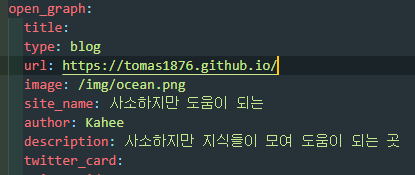
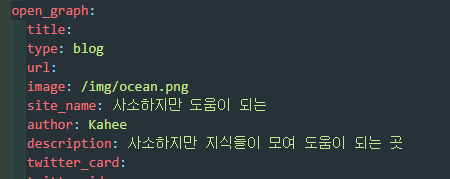
SITE UPDATE

diff --git a/make-a-pretty-link-preview/index.html b/make-a-pretty-link-preview/index.html
@@ -1,5 +1,5 @@
 <!doctype html>
-<html lang="en"><head><meta name="google-site-verification" content="4JQY5xZfRv3yRunHpSGYotQMGoLFLpnYPmnitXMdW24"><meta charset="utf-8"><meta name="viewport" content="width=device-width, initial-scale=1, maximum-scale=1"><meta property="og:image" content="/img/ocean.png"><title>[hexo] 블로그 링크 공유시 제목, 이미지 커스텀하기 - 사소하지만 도움이 되는</title><link rel="manifest" href="/manifest.json"><meta name="application-name" content="사소하지만 도움이 되는"><meta name="msapplication-TileImage" content="/img/logo.png"><meta name="apple-mobile-web-app-capable" content="yes"><meta name="apple-mobile-web-app-title" content="사소하지만 도움이 되는"><meta name="apple-mobile-web-app-status-bar-style" content="default"><meta name="description" content="사소하지만 지식들이 모여 도움이 되는 곳"><meta property="og:type" content="blog"><meta property="og:title" content="[hexo] 블로그 링크 공유시 제목, 이미지 커스텀하기 - 사소하지만 도움이 되는"><meta property="og:url" content="https://tomas1876.github.io/make-a-pretty-link-preview/"><meta property="og:site_name" content="사소하지만 도움이 되는"><meta property="og:description" content="사소하지만 지식들이 모여 도움이 되는 곳"><meta property="og:locale" content="en_US"><meta property="og:image" content="https://tomas1876.github.io/make-a-pretty-link-preview/cover.png"><meta property="article:published_time" content="2022-11-22T12:05:14.000Z"><meta property="article:modified_time" content="2022-11-22T13:41:53.292Z"><meta property="article:author" content="Kahee"><meta property="article:tag" content="hexo"><meta property="twitter:card" content="summary"><meta property="twitter:image:src" content="https://tomas1876.github.io/make-a-pretty-link-preview/cover.png"><script type="application/ld+json">{"@context":"https://schema.org","@type":"BlogPosting","mainEntityOfPage":{"@type":"WebPage","@id":"https://tomas1876.github.io/make-a-pretty-link-preview/"},"headline":"[hexo] 블로그 링크 공유시 제목, 이미지 커스텀하기","image":["https://tomas1876.github.io/make-a-pretty-link-preview/cover.png"],"datePublished":"2022-11-22T12:05:14.000Z","dateModified":"2022-11-22T13:41:53.292Z","author":{"@type":"Person","name":"Kahee"},"publisher":{"@type":"Organization","name":"사소하지만 도움이 되는","logo":{"@type":"ImageObject","url":"https://tomas1876.github.io/img/logo.png"}},"description":"커스텀! 커스텀을 하자!나는 원래 ‘내 개인의 것’이라는 생각이 들면 내 입맛대로 조금씩 바꾸는 것을 좋아한다.어렸을 때부터 휴대폰을 사면 가장 먼저 하는 것이 배경화면과 테마, 앱배치를 조정하는 일이었다.깃블로그를 만들고 나서도 가장 먼저 _config.yml을 열어 제목과 기본 정보들을 내 것으로 채워넣었다.여기까진 쉽고 자료도 많았다. 문제는 내 블로"}</script><link rel="canonical" href="https://tomas1876.github.io/make-a-pretty-link-preview/"><link rel="icon" href="/img/logo.png"><link rel="stylesheet" href="https://use.fontawesome.com/releases/v6.0.0/css/all.css"><link rel="stylesheet" href="https://cdn.jsdelivr.net/npm/highlight.js@9.12.0/styles/atom-one-light.css"><link rel="stylesheet" href="https://fonts.googleapis.com/css2?family=Ubuntu:wght@400;600&amp;family=Source+Code+Pro"><link rel="stylesheet" href="/css/default.css"><style>body>.footer,body>.navbar,body>.section{opacity:0}</style><!--!--><!--!--><!--!--><script src="//busuanzi.ibruce.info/busuanzi/2.3/busuanzi.pure.mini.js" defer></script><!--!--><link rel="stylesheet" href="https://cdn.jsdelivr.net/npm/cookieconsent@3.1.1/build/cookieconsent.min.css"><link rel="stylesheet" href="https://cdn.jsdelivr.net/npm/lightgallery@1.10.0/dist/css/lightgallery.min.css"><link rel="stylesheet" href="https://cdn.jsdelivr.net/npm/justifiedGallery@3.8.1/dist/css/justifiedGallery.min.css"><script src="https://www.googletagmanager.com/gtag/js?id=G-6H6ERYE1G0" async></script><script>window.dataLayer = window.dataLayer || [];
+<html lang="en"><head><meta name="google-site-verification" content="4JQY5xZfRv3yRunHpSGYotQMGoLFLpnYPmnitXMdW24"><meta charset="utf-8"><meta name="viewport" content="width=device-width, initial-scale=1, maximum-scale=1"><meta property="og:image" content="/img/ocean.png"><title>[hexo] 블로그 링크 공유시 제목, 이미지 커스텀하기 - 사소하지만 도움이 되는</title><link rel="manifest" href="/manifest.json"><meta name="application-name" content="사소하지만 도움이 되는"><meta name="msapplication-TileImage" content="/img/logo.png"><meta name="apple-mobile-web-app-capable" content="yes"><meta name="apple-mobile-web-app-title" content="사소하지만 도움이 되는"><meta name="apple-mobile-web-app-status-bar-style" content="default"><meta name="description" content="사소하지만 지식들이 모여 도움이 되는 곳"><meta property="og:type" content="blog"><meta property="og:title" content="[hexo] 블로그 링크 공유시 제목, 이미지 커스텀하기 - 사소하지만 도움이 되는"><meta property="og:url" content="https://tomas1876.github.io/make-a-pretty-link-preview/"><meta property="og:site_name" content="사소하지만 도움이 되는"><meta property="og:description" content="사소하지만 지식들이 모여 도움이 되는 곳"><meta property="og:locale" content="en_US"><meta property="og:image" content="https://tomas1876.github.io/make-a-pretty-link-preview/cover.png"><meta property="article:published_time" content="2022-11-22T12:05:14.000Z"><meta property="article:modified_time" content="2022-11-22T14:07:14.492Z"><meta property="article:author" content="Kahee"><meta property="article:tag" content="hexo"><meta property="twitter:card" content="summary"><meta property="twitter:image:src" content="https://tomas1876.github.io/make-a-pretty-link-preview/cover.png"><script type="application/ld+json">{"@context":"https://schema.org","@type":"BlogPosting","mainEntityOfPage":{"@type":"WebPage","@id":"https://tomas1876.github.io/make-a-pretty-link-preview/"},"headline":"[hexo] 블로그 링크 공유시 제목, 이미지 커스텀하기","image":["https://tomas1876.github.io/make-a-pretty-link-preview/cover.png"],"datePublished":"2022-11-22T12:05:14.000Z","dateModified":"2022-11-22T14:07:14.492Z","author":{"@type":"Person","name":"Kahee"},"publisher":{"@type":"Organization","name":"사소하지만 도움이 되는","logo":{"@type":"ImageObject","url":"https://tomas1876.github.io/img/logo.png"}},"description":"커스텀! 커스텀을 하자!나는 원래 ‘내 개인의 것’이라는 생각이 들면 내 입맛대로 조금씩 바꾸는 것을 좋아한다.어렸을 때부터 휴대폰을 사면 가장 먼저 하는 것이 배경화면과 테마, 앱배치를 조정하는 일이었다.깃블로그를 만들고 나서도 가장 먼저 _config.yml을 열어 제목과 기본 정보들을 내 것으로 채워넣었다.여기까진 쉽고 자료도 많았다. 문제는 내 블로"}</script><link rel="canonical" href="https://tomas1876.github.io/make-a-pretty-link-preview/"><link rel="icon" href="/img/logo.png"><link rel="stylesheet" href="https://use.fontawesome.com/releases/v6.0.0/css/all.css"><link rel="stylesheet" href="https://cdn.jsdelivr.net/npm/highlight.js@9.12.0/styles/atom-one-light.css"><link rel="stylesheet" href="https://fonts.googleapis.com/css2?family=Ubuntu:wght@400;600&amp;family=Source+Code+Pro"><link rel="stylesheet" href="/css/default.css"><style>body>.footer,body>.navbar,body>.section{opacity:0}</style><!--!--><!--!--><!--!--><script src="//busuanzi.ibruce.info/busuanzi/2.3/busuanzi.pure.mini.js" defer></script><!--!--><link rel="stylesheet" href="https://cdn.jsdelivr.net/npm/cookieconsent@3.1.1/build/cookieconsent.min.css"><link rel="stylesheet" href="https://cdn.jsdelivr.net/npm/lightgallery@1.10.0/dist/css/lightgallery.min.css"><link rel="stylesheet" href="https://cdn.jsdelivr.net/npm/justifiedGallery@3.8.1/dist/css/justifiedGallery.min.css"><script src="https://www.googletagmanager.com/gtag/js?id=G-6H6ERYE1G0" async></script><script>window.dataLayer = window.dataLayer || [];
         function gtag(){dataLayer.push(arguments);}
         gtag('js', new Date());
     
@@ -32,7 +32,7 @@
       switchTab();
       window.addEventListener('hashchange', switchTab, false);
   })();
-  </script><!-- hexo injector head_end end --><meta name="generator" content="Hexo 6.3.0"></head><body class="is-2-column"><nav class="navbar navbar-main"><div class="container navbar-container"><div class="navbar-brand justify-content-center"><a class="navbar-item navbar-logo" href="/"><img src="/img/logo.png" alt="사소하지만 도움이 되는" height="28"></a></div><div class="navbar-menu"><div class="navbar-start"><a class="navbar-item" href="/">Home</a><a class="navbar-item" href="/archives">Archives</a><a class="navbar-item" href="/categories">Categories</a><a class="navbar-item" href="/tags">Tags</a><a class="navbar-item" href="/about">About</a></div><div class="navbar-end"><a class="navbar-item" target="_blank" rel="noopener" title="Download on GitHub" href="https://github.com/Tomas1876"><i class="fab fa-github"></i></a><a class="navbar-item search" title="Search" href="javascript:;"><i class="fas fa-search"></i></a></div></div></div></nav><section class="section"><div class="container"><div class="columns"><div class="column order-2 column-main is-8-tablet is-8-desktop is-8-widescreen"><div class="card"><div class="card-image"><span class="image is-7by3"><img class="fill" src="/make-a-pretty-link-preview/cover.png" alt="[hexo] 블로그 링크 공유시 제목, 이미지 커스텀하기"></span></div><article class="card-content article" role="article"><div class="article-meta is-size-7 is-uppercase level is-mobile"><div class="level-left"><span class="level-item">Posted&nbsp;<time dateTime="2022-11-22T12:05:14.000Z" title="2022. 11. 22. 오후 9:05:14">2022-11-22</time></span><span class="level-item">Updated&nbsp;<time dateTime="2022-11-22T13:41:53.292Z" title="2022. 11. 22. 오후 10:41:53">2022-11-22</time></span><span class="level-item"><a class="link-muted" href="/categories/JOURNAL/">JOURNAL</a></span><span class="level-item">14 minutes read (About 2124 words)</span><span class="level-item" id="busuanzi_container_page_pv"><span id="busuanzi_value_page_pv">0</span>&nbsp;visits</span></div></div><h1 class="title is-3 is-size-4-mobile">[hexo] 블로그 링크 공유시 제목, 이미지 커스텀하기</h1><div class="content"><h3 id="커스텀-커스텀을-하자"><a href="#커스텀-커스텀을-하자" class="headerlink" title="커스텀! 커스텀을 하자!"></a>커스텀! 커스텀을 하자!</h3><p>나는 원래 ‘내 개인의 것’이라는 생각이 들면 내 입맛대로 조금씩 바꾸는 것을 좋아한다.<br>어렸을 때부터 휴대폰을 사면 가장 먼저 하는 것이 배경화면과 테마, 앱배치를 조정하는 일이었다.<br>깃블로그를 만들고 나서도 가장 먼저 _config.yml을 열어 제목과 기본 정보들을 내 것으로 채워넣었다.<br>여기까진 쉽고 자료도 많았다. 문제는 내 블로그를 지인에게 자랑하거나, 글을 써서 공유하려고 만든 링크의 미리보기가 마음에 들지 않는다는 것이었다.</p>
+  </script><!-- hexo injector head_end end --><meta name="generator" content="Hexo 6.3.0"></head><body class="is-2-column"><nav class="navbar navbar-main"><div class="container navbar-container"><div class="navbar-brand justify-content-center"><a class="navbar-item navbar-logo" href="/"><img src="/img/logo.png" alt="사소하지만 도움이 되는" height="28"></a></div><div class="navbar-menu"><div class="navbar-start"><a class="navbar-item" href="/">Home</a><a class="navbar-item" href="/archives">Archives</a><a class="navbar-item" href="/categories">Categories</a><a class="navbar-item" href="/tags">Tags</a><a class="navbar-item" href="/about">About</a></div><div class="navbar-end"><a class="navbar-item" target="_blank" rel="noopener" title="Download on GitHub" href="https://github.com/Tomas1876"><i class="fab fa-github"></i></a><a class="navbar-item search" title="Search" href="javascript:;"><i class="fas fa-search"></i></a></div></div></div></nav><section class="section"><div class="container"><div class="columns"><div class="column order-2 column-main is-8-tablet is-8-desktop is-8-widescreen"><div class="card"><div class="card-image"><span class="image is-7by3"><img class="fill" src="/make-a-pretty-link-preview/cover.png" alt="[hexo] 블로그 링크 공유시 제목, 이미지 커스텀하기"></span></div><article class="card-content article" role="article"><div class="article-meta is-size-7 is-uppercase level is-mobile"><div class="level-left"><span class="level-item">Posted&nbsp;<time dateTime="2022-11-22T12:05:14.000Z" title="2022. 11. 22. 오후 9:05:14">2022-11-22</time></span><span class="level-item">Updated&nbsp;<time dateTime="2022-11-22T14:07:14.492Z" title="2022. 11. 22. 오후 11:07:14">2022-11-22</time></span><span class="level-item"><a class="link-muted" href="/categories/JOURNAL/">JOURNAL</a></span><span class="level-item">14 minutes read (About 2124 words)</span><span class="level-item" id="busuanzi_container_page_pv"><span id="busuanzi_value_page_pv">0</span>&nbsp;visits</span></div></div><h1 class="title is-3 is-size-4-mobile">[hexo] 블로그 링크 공유시 제목, 이미지 커스텀하기</h1><div class="content"><h3 id="커스텀-커스텀을-하자"><a href="#커스텀-커스텀을-하자" class="headerlink" title="커스텀! 커스텀을 하자!"></a>커스텀! 커스텀을 하자!</h3><p>나는 원래 ‘내 개인의 것’이라는 생각이 들면 내 입맛대로 조금씩 바꾸는 것을 좋아한다.<br>어렸을 때부터 휴대폰을 사면 가장 먼저 하는 것이 배경화면과 테마, 앱배치를 조정하는 일이었다.<br>깃블로그를 만들고 나서도 가장 먼저 _config.yml을 열어 제목과 기본 정보들을 내 것으로 채워넣었다.<br>여기까진 쉽고 자료도 많았다. 문제는 내 블로그를 지인에게 자랑하거나, 글을 써서 공유하려고 만든 링크의 미리보기가 마음에 들지 않는다는 것이었다.</p>
 <img src="/make-a-pretty-link-preview/icarus-default.png" class="">
 
 <p>내가 사용하는 이카루스 테마의 기본 미리보기는 이렇다.<br>나쁘지는 않지만 마음에 드는 것은 아니었다. 뭐를 바꿔야 할지 몰라서 _config.yml과 _config.icarus.yml 을 샅샅이 뒤졌지만 무엇을 바꿔야 할 지 알 수 없었다. 그래서 일단 의심가는 곳을 다 설정해봤다.</p>
@@ -70,7 +70,7 @@
 <p>어? 왜 og:url이 게시글 url이 아니지? 설정파일에 적은 값들은 어떻게 태그로 변환되는 걸까? 중간에 무슨 문제가 있는 걸까?<br>layout.ejs는 없었지만 styl 파일이 있길래 확인했더니 head.jsx를 임포트 하고 있었다.</p>
 <figure class="highlight plaintext"><table><tr><td class="gutter"><pre><span class="line">1</span><br><span class="line">2</span><br><span class="line">3</span><br><span class="line">4</span><br><span class="line">5</span><br><span class="line">6</span><br><span class="line">7</span><br><span class="line">8</span><br><span class="line">9</span><br><span class="line">10</span><br><span class="line">11</span><br><span class="line">12</span><br><span class="line">13</span><br><span class="line">14</span><br><span class="line">15</span><br><span class="line">16</span><br><span class="line">17</span><br><span class="line">18</span><br><span class="line">19</span><br><span class="line">20</span><br><span class="line">21</span><br><span class="line">22</span><br><span class="line">23</span><br><span class="line">24</span><br><span class="line">25</span><br><span class="line">26</span><br><span class="line">27</span><br><span class="line">28</span><br><span class="line">29</span><br><span class="line">30</span><br><span class="line">31</span><br><span class="line">32</span><br><span class="line">33</span><br><span class="line">34</span><br><span class="line">35</span><br><span class="line">36</span><br></pre></td><td class="code"><pre><span class="line"> // ...</span><br><span class="line"></span><br><span class="line">module.exports = class extends Component &#123;</span><br><span class="line">    render() &#123;</span><br><span class="line">        const &#123; site, config, helper, page &#125; = this.props;</span><br><span class="line">        const &#123; url_for, cdn, fontcdn, iconcdn, is_post &#125; = helper;</span><br><span class="line">        const &#123;</span><br><span class="line">            url,</span><br><span class="line">            head = &#123;&#125;,</span><br><span class="line">            article,</span><br><span class="line">            highlight,</span><br><span class="line">            variant = &#x27;default&#x27;</span><br><span class="line">        &#125; = config;</span><br><span class="line">        const &#123;</span><br><span class="line">            meta = [],</span><br><span class="line">            manifest = &#123;&#125;,</span><br><span class="line">            open_graph = &#123;&#125;,</span><br><span class="line">            structured_data = &#123;&#125;,</span><br><span class="line">            canonical_url = page.permalink,</span><br><span class="line">            rss,</span><br><span class="line">            favicon</span><br><span class="line">        &#125; = head;</span><br><span class="line"></span><br><span class="line">  // ...</span><br><span class="line"></span><br><span class="line">  &#123;typeof open_graph === &#x27;object&#x27; &amp;&amp; open_graph !== null ? &lt;OpenGraph</span><br><span class="line">                type=&#123;open_graph.type || (is_post(page) ? &#x27;article&#x27; : &#x27;website&#x27;)&#125;</span><br><span class="line">                title=&#123;open_graph.title || page.title || config.title&#125;</span><br><span class="line">                date=&#123;page.date&#125;</span><br><span class="line">                updated=&#123;page.updated&#125;</span><br><span class="line">                author=&#123;open_graph.author || config.author&#125;</span><br><span class="line">                description=&#123;open_graph.description || page.description || page.excerpt || page.content || config.description&#125;</span><br><span class="line">                keywords=&#123;(page.tags &amp;&amp; page.tags.length ? page.tags : undefined) || config.keywords&#125;</span><br><span class="line">                url=&#123;open_graph.url || page.permalink || url&#125;</span><br><span class="line">                images=&#123;openGraphImages&#125;</span><br><span class="line">  // ...</span><br></pre></td></tr></table></figure>
 
-<p><code>title=&#123;open_graph.title || page.title || config.title&#125;</code> 을 보고 각각 확인해 보니 open_graph.title은 비어 있고 page.title은 잘 들어가 있었다. 그런데 왜 제대로 뜨지 않을까? url 때문이겠지? 왜 기본 url로 og:url이 설정될까? <del>이 부분에서 꽤 오래 삽질을 했다. 콘솔에 변수를 찍어보고 값이 있는 걸 확인하고 몇 번이고 generate를 하고</del> 알고 보니 내가 설정 파일에서 open_graph의 url을 블로그 기본 url로 해놨더라. 그러니 <code>url=&#123;open_graph.url || page.permalink || url&#125;</code>에서 기본 url이 먼저 할당되어 버린 거였다. 하하…코드를 잘 읽자… <del>역시 컴퓨터는 죄가 없다. 잘못하는 건 항상 나다</del> 그 부분을 지워주고 <code>page.permalink</code>가 값이 잘 들어가는 것을 확인한 뒤 다시 배포하고 게시글 링크를 공유했다.</p>
+<p><code>title=&#123;open_graph.title || page.title || config.title&#125;</code> 을 보고 각각 확인해 보니 open_graph.title은 비어 있고 page.title은 잘 들어가 있었다. 그런데 왜 제대로 뜨지 않을까? url 때문이겠지? 왜 기본 url로 og:url이 설정될까? <del>이 부분에서 꽤 오래 삽질을 했다. 콘솔에 변수를 찍어보고 값이 있는 걸 확인하고 몇 번이고 generate를 하고</del> 알고 보니 내가 설정 파일에서 open_graph의 url을 블로그 기본 url로 해놨더라. 그러니 <code>url=&#123;open_graph.url || page.permalink || url&#125;</code>에서 기본 url이 먼저 할당되어 버린 거였다. 하하…코드를 잘 읽자… <del>역시 컴퓨터는 죄가 없다. 잘못하는 건 항상 나다</del><br>그 부분을 지워주고 <code>page.permalink</code>가 값이 잘 들어가는 것을 확인한 뒤 다시 배포하고 게시글 링크를 공유했다.</p>
 <img src="/make-a-pretty-link-preview/custom3.png" class="">
 
 <p>와! 드디어 제목이 들어갔다!!! 나는 자리에서 벌떡 일어났다. 그리고 3초 후 앉았다. 게시글 커버 있는데 왜 반영 안됐지?<br>이쯤 되면 조금 까다로운 사람이라는 생각이 들겠지만, 나는 만족할 수 없었다. 이 글은 내가 직접 커버까지 찍은 글이어서 그런가 상당히 마음에 드는 사진이었기 때문이다.</p>

diff --git a/categories/JOURNAL/index.html b/categories/JOURNAL/index.html
@@ -32,7 +32,7 @@
       switchTab();
       window.addEventListener('hashchange', switchTab, false);
   })();
-  </script><!-- hexo injector head_end end --><meta name="generator" content="Hexo 6.3.0"></head><body class="is-2-column"><nav class="navbar navbar-main"><div class="container navbar-container"><div class="navbar-brand justify-content-center"><a class="navbar-item navbar-logo" href="/"><img src="/img/logo.png" alt="사소하지만 도움이 되는" height="28"></a></div><div class="navbar-menu"><div class="navbar-start"><a class="navbar-item" href="/">Home</a><a class="navbar-item" href="/archives">Archives</a><a class="navbar-item" href="/categories">Categories</a><a class="navbar-item" href="/tags">Tags</a><a class="navbar-item" href="/about">About</a></div><div class="navbar-end"><a class="navbar-item" target="_blank" rel="noopener" title="Download on GitHub" href="https://github.com/Tomas1876"><i class="fab fa-github"></i></a><a class="navbar-item search" title="Search" href="javascript:;"><i class="fas fa-search"></i></a></div></div></div></nav><section class="section"><div class="container"><div class="columns"><div class="column order-2 column-main is-8-tablet is-8-desktop is-8-widescreen"><div class="card"><div class="card-content"><nav class="breadcrumb" aria-label="breadcrumbs"><ul><li><a href="/categories">Categories</a></li><li class="is-active"><a href="#" aria-current="page">JOURNAL</a></li></ul></nav></div></div><div class="card"><div class="card-image"><a class="image is-7by3" href="/make-a-pretty-link-preview/"><img class="fill" src="/make-a-pretty-link-preview/cover.png" alt="[hexo] 블로그 링크 공유시 제목, 이미지 커스텀하기"></a></div><article class="card-content article" role="article"><div class="article-meta is-size-7 is-uppercase level is-mobile"><div class="level-left"><span class="level-item">Posted&nbsp;<time dateTime="2022-11-22T12:05:14.000Z" title="2022. 11. 22. 오후 9:05:14">2022-11-22</time></span><span class="level-item">Updated&nbsp;<time dateTime="2022-11-22T13:41:53.292Z" title="2022. 11. 22. 오후 10:41:53">2022-11-22</time></span><span class="level-item"><a class="link-muted" href="/categories/JOURNAL/">JOURNAL</a></span><span class="level-item">14 minutes read (About 2124 words)</span></div></div><h1 class="title is-3 is-size-4-mobile"><a class="link-muted" href="/make-a-pretty-link-preview/">[hexo] 블로그 링크 공유시 제목, 이미지 커스텀하기</a></h1><div class="content"><h3 id="커스텀-커스텀을-하자"><a href="#커스텀-커스텀을-하자" class="headerlink" title="커스텀! 커스텀을 하자!"></a>커스텀! 커스텀을 하자!</h3><p>나는 원래 ‘내 개인의 것’이라는 생각이 들면 내 입맛대로 조금씩 바꾸는 것을 좋아한다.<br>어렸을 때부터 휴대폰을 사면 가장 먼저 하는 것이 배경화면과 테마, 앱배치를 조정하는 일이었다.<br>깃블로그를 만들고 나서도 가장 먼저 _config.yml을 열어 제목과 기본 정보들을 내 것으로 채워넣었다.<br>여기까진 쉽고 자료도 많았다. 문제는 내 블로그를 지인에게 자랑하거나, 글을 써서 공유하려고 만든 링크의 미리보기가 마음에 들지 않는다는 것이었다.</p>
+  </script><!-- hexo injector head_end end --><meta name="generator" content="Hexo 6.3.0"></head><body class="is-2-column"><nav class="navbar navbar-main"><div class="container navbar-container"><div class="navbar-brand justify-content-center"><a class="navbar-item navbar-logo" href="/"><img src="/img/logo.png" alt="사소하지만 도움이 되는" height="28"></a></div><div class="navbar-menu"><div class="navbar-start"><a class="navbar-item" href="/">Home</a><a class="navbar-item" href="/archives">Archives</a><a class="navbar-item" href="/categories">Categories</a><a class="navbar-item" href="/tags">Tags</a><a class="navbar-item" href="/about">About</a></div><div class="navbar-end"><a class="navbar-item" target="_blank" rel="noopener" title="Download on GitHub" href="https://github.com/Tomas1876"><i class="fab fa-github"></i></a><a class="navbar-item search" title="Search" href="javascript:;"><i class="fas fa-search"></i></a></div></div></div></nav><section class="section"><div class="container"><div class="columns"><div class="column order-2 column-main is-8-tablet is-8-desktop is-8-widescreen"><div class="card"><div class="card-content"><nav class="breadcrumb" aria-label="breadcrumbs"><ul><li><a href="/categories">Categories</a></li><li class="is-active"><a href="#" aria-current="page">JOURNAL</a></li></ul></nav></div></div><div class="card"><div class="card-image"><a class="image is-7by3" href="/make-a-pretty-link-preview/"><img class="fill" src="/make-a-pretty-link-preview/cover.png" alt="[hexo] 블로그 링크 공유시 제목, 이미지 커스텀하기"></a></div><article class="card-content article" role="article"><div class="article-meta is-size-7 is-uppercase level is-mobile"><div class="level-left"><span class="level-item">Posted&nbsp;<time dateTime="2022-11-22T12:05:14.000Z" title="2022. 11. 22. 오후 9:05:14">2022-11-22</time></span><span class="level-item">Updated&nbsp;<time dateTime="2022-11-22T14:07:14.492Z" title="2022. 11. 22. 오후 11:07:14">2022-11-22</time></span><span class="level-item"><a class="link-muted" href="/categories/JOURNAL/">JOURNAL</a></span><span class="level-item">14 minutes read (About 2124 words)</span></div></div><h1 class="title is-3 is-size-4-mobile"><a class="link-muted" href="/make-a-pretty-link-preview/">[hexo] 블로그 링크 공유시 제목, 이미지 커스텀하기</a></h1><div class="content"><h3 id="커스텀-커스텀을-하자"><a href="#커스텀-커스텀을-하자" class="headerlink" title="커스텀! 커스텀을 하자!"></a>커스텀! 커스텀을 하자!</h3><p>나는 원래 ‘내 개인의 것’이라는 생각이 들면 내 입맛대로 조금씩 바꾸는 것을 좋아한다.<br>어렸을 때부터 휴대폰을 사면 가장 먼저 하는 것이 배경화면과 테마, 앱배치를 조정하는 일이었다.<br>깃블로그를 만들고 나서도 가장 먼저 _config.yml을 열어 제목과 기본 정보들을 내 것으로 채워넣었다.<br>여기까진 쉽고 자료도 많았다. 문제는 내 블로그를 지인에게 자랑하거나, 글을 써서 공유하려고 만든 링크의 미리보기가 마음에 들지 않는다는 것이었다.</p>
 <img src="/make-a-pretty-link-preview/icarus-default.png" class>
 
 <p>내가 사용하는 이카루스 테마의 기본 미리보기는 이렇다.<br>나쁘지는 않지만 마음에 드는 것은 아니었다. 뭐를 바꿔야 할지 몰라서 _config.yml과 _config.icarus.yml 을 샅샅이 뒤졌지만 무엇을 바꿔야 할 지 알 수 없었다. 그래서 일단 의심가는 곳을 다 설정해봤다.</p>

diff --git a/tags/hexo/index.html b/tags/hexo/index.html
@@ -32,7 +32,7 @@
       switchTab();
       window.addEventListener('hashchange', switchTab, false);
   })();
-  </script><!-- hexo injector head_end end --><meta name="generator" content="Hexo 6.3.0"></head><body class="is-2-column"><nav class="navbar navbar-main"><div class="container navbar-container"><div class="navbar-brand justify-content-center"><a class="navbar-item navbar-logo" href="/"><img src="/img/logo.png" alt="사소하지만 도움이 되는" height="28"></a></div><div class="navbar-menu"><div class="navbar-start"><a class="navbar-item" href="/">Home</a><a class="navbar-item" href="/archives">Archives</a><a class="navbar-item" href="/categories">Categories</a><a class="navbar-item" href="/tags">Tags</a><a class="navbar-item" href="/about">About</a></div><div class="navbar-end"><a class="navbar-item" target="_blank" rel="noopener" title="Download on GitHub" href="https://github.com/Tomas1876"><i class="fab fa-github"></i></a><a class="navbar-item search" title="Search" href="javascript:;"><i class="fas fa-search"></i></a></div></div></div></nav><section class="section"><div class="container"><div class="columns"><div class="column order-2 column-main is-8-tablet is-8-desktop is-8-widescreen"><div class="card"><div class="card-content"><nav class="breadcrumb" aria-label="breadcrumbs"><ul><li><a href="/tags">Tags</a></li><li class="is-active"><a href="#" aria-current="page">hexo</a></li></ul></nav></div></div><div class="card"><div class="card-image"><a class="image is-7by3" href="/make-a-pretty-link-preview/"><img class="fill" src="/make-a-pretty-link-preview/cover.png" alt="[hexo] 블로그 링크 공유시 제목, 이미지 커스텀하기"></a></div><article class="card-content article" role="article"><div class="article-meta is-size-7 is-uppercase level is-mobile"><div class="level-left"><span class="level-item">Posted&nbsp;<time dateTime="2022-11-22T12:05:14.000Z" title="2022. 11. 22. 오후 9:05:14">2022-11-22</time></span><span class="level-item">Updated&nbsp;<time dateTime="2022-11-22T13:41:53.292Z" title="2022. 11. 22. 오후 10:41:53">2022-11-22</time></span><span class="level-item"><a class="link-muted" href="/categories/JOURNAL/">JOURNAL</a></span><span class="level-item">14 minutes read (About 2124 words)</span></div></div><h1 class="title is-3 is-size-4-mobile"><a class="link-muted" href="/make-a-pretty-link-preview/">[hexo] 블로그 링크 공유시 제목, 이미지 커스텀하기</a></h1><div class="content"><h3 id="커스텀-커스텀을-하자"><a href="#커스텀-커스텀을-하자" class="headerlink" title="커스텀! 커스텀을 하자!"></a>커스텀! 커스텀을 하자!</h3><p>나는 원래 ‘내 개인의 것’이라는 생각이 들면 내 입맛대로 조금씩 바꾸는 것을 좋아한다.<br>어렸을 때부터 휴대폰을 사면 가장 먼저 하는 것이 배경화면과 테마, 앱배치를 조정하는 일이었다.<br>깃블로그를 만들고 나서도 가장 먼저 _config.yml을 열어 제목과 기본 정보들을 내 것으로 채워넣었다.<br>여기까진 쉽고 자료도 많았다. 문제는 내 블로그를 지인에게 자랑하거나, 글을 써서 공유하려고 만든 링크의 미리보기가 마음에 들지 않는다는 것이었다.</p>
+  </script><!-- hexo injector head_end end --><meta name="generator" content="Hexo 6.3.0"></head><body class="is-2-column"><nav class="navbar navbar-main"><div class="container navbar-container"><div class="navbar-brand justify-content-center"><a class="navbar-item navbar-logo" href="/"><img src="/img/logo.png" alt="사소하지만 도움이 되는" height="28"></a></div><div class="navbar-menu"><div class="navbar-start"><a class="navbar-item" href="/">Home</a><a class="navbar-item" href="/archives">Archives</a><a class="navbar-item" href="/categories">Categories</a><a class="navbar-item" href="/tags">Tags</a><a class="navbar-item" href="/about">About</a></div><div class="navbar-end"><a class="navbar-item" target="_blank" rel="noopener" title="Download on GitHub" href="https://github.com/Tomas1876"><i class="fab fa-github"></i></a><a class="navbar-item search" title="Search" href="javascript:;"><i class="fas fa-search"></i></a></div></div></div></nav><section class="section"><div class="container"><div class="columns"><div class="column order-2 column-main is-8-tablet is-8-desktop is-8-widescreen"><div class="card"><div class="card-content"><nav class="breadcrumb" aria-label="breadcrumbs"><ul><li><a href="/tags">Tags</a></li><li class="is-active"><a href="#" aria-current="page">hexo</a></li></ul></nav></div></div><div class="card"><div class="card-image"><a class="image is-7by3" href="/make-a-pretty-link-preview/"><img class="fill" src="/make-a-pretty-link-preview/cover.png" alt="[hexo] 블로그 링크 공유시 제목, 이미지 커스텀하기"></a></div><article class="card-content article" role="article"><div class="article-meta is-size-7 is-uppercase level is-mobile"><div class="level-left"><span class="level-item">Posted&nbsp;<time dateTime="2022-11-22T12:05:14.000Z" title="2022. 11. 22. 오후 9:05:14">2022-11-22</time></span><span class="level-item">Updated&nbsp;<time dateTime="2022-11-22T14:07:14.492Z" title="2022. 11. 22. 오후 11:07:14">2022-11-22</time></span><span class="level-item"><a class="link-muted" href="/categories/JOURNAL/">JOURNAL</a></span><span class="level-item">14 minutes read (About 2124 words)</span></div></div><h1 class="title is-3 is-size-4-mobile"><a class="link-muted" href="/make-a-pretty-link-preview/">[hexo] 블로그 링크 공유시 제목, 이미지 커스텀하기</a></h1><div class="content"><h3 id="커스텀-커스텀을-하자"><a href="#커스텀-커스텀을-하자" class="headerlink" title="커스텀! 커스텀을 하자!"></a>커스텀! 커스텀을 하자!</h3><p>나는 원래 ‘내 개인의 것’이라는 생각이 들면 내 입맛대로 조금씩 바꾸는 것을 좋아한다.<br>어렸을 때부터 휴대폰을 사면 가장 먼저 하는 것이 배경화면과 테마, 앱배치를 조정하는 일이었다.<br>깃블로그를 만들고 나서도 가장 먼저 _config.yml을 열어 제목과 기본 정보들을 내 것으로 채워넣었다.<br>여기까진 쉽고 자료도 많았다. 문제는 내 블로그를 지인에게 자랑하거나, 글을 써서 공유하려고 만든 링크의 미리보기가 마음에 들지 않는다는 것이었다.</p>
 <img src="/make-a-pretty-link-preview/icarus-default.png" class>
 
 <p>내가 사용하는 이카루스 테마의 기본 미리보기는 이렇다.<br>나쁘지는 않지만 마음에 드는 것은 아니었다. 뭐를 바꿔야 할지 몰라서 _config.yml과 _config.icarus.yml 을 샅샅이 뒤졌지만 무엇을 바꿔야 할 지 알 수 없었다. 그래서 일단 의심가는 곳을 다 설정해봤다.</p>

diff --git a/categories/index.html b/categories/index.html
@@ -1,5 +1,5 @@
 <!doctype html>
-<html lang="en"><head><meta name="google-site-verification" content="4JQY5xZfRv3yRunHpSGYotQMGoLFLpnYPmnitXMdW24"><meta charset="utf-8"><meta name="viewport" content="width=device-width, initial-scale=1, maximum-scale=1"><meta property="og:image" content="/img/ocean.png"><title>Categories - 사소하지만 도움이 되는</title><link rel="manifest" href="/manifest.json"><meta name="application-name" content="사소하지만 도움이 되는"><meta name="msapplication-TileImage" content="/img/logo.png"><meta name="apple-mobile-web-app-capable" content="yes"><meta name="apple-mobile-web-app-title" content="사소하지만 도움이 되는"><meta name="apple-mobile-web-app-status-bar-style" content="default"><meta name="description" content="사소하지만 지식들이 모여 도움이 되는 곳"><meta property="og:type" content="blog"><meta property="og:title" content="Categories - 사소하지만 도움이 되는"><meta property="og:url" content="https://tomas1876.github.io/"><meta property="og:site_name" content="사소하지만 도움이 되는"><meta property="og:description" content="사소하지만 지식들이 모여 도움이 되는 곳"><meta property="og:locale" content="en_US"><meta property="og:image" content="https://tomas1876.github.io/img/ocean.png"><meta property="article:author" content="Kahee"><meta property="article:tag" content="hexo"><meta property="article:tag" content="dev"><meta property="article:tag" content="git"><meta property="article:tag" content="front-end"><meta property="article:tag" content="react"><meta property="article:tag" content="typescript"><meta property="twitter:card" content="summary"><meta property="twitter:image:src" content="https://tomas1876.github.io/img/ocean.png"><script type="application/ld+json">{"@context":"https://schema.org","@type":"BlogPosting","mainEntityOfPage":{"@type":"WebPage","@id":"https://tomas1876.github.io"},"headline":"사소하지만 도움이 되는","image":["https://tomas1876.github.io/img/og_image.png"],"author":{"@type":"Person","name":"Kahee"},"publisher":{"@type":"Organization","name":"사소하지만 도움이 되는","logo":{"@type":"ImageObject","url":"https://tomas1876.github.io/img/logo.png"}},"description":""}</script><link rel="icon" href="/img/logo.png"><link rel="stylesheet" href="https://use.fontawesome.com/releases/v6.0.0/css/all.css"><link rel="stylesheet" href="https://cdn.jsdelivr.net/npm/highlight.js@9.12.0/styles/atom-one-light.css"><link rel="stylesheet" href="https://fonts.googleapis.com/css2?family=Ubuntu:wght@400;600&amp;family=Source+Code+Pro"><link rel="stylesheet" href="/css/default.css"><style>body>.footer,body>.navbar,body>.section{opacity:0}</style><!--!--><!--!--><!--!--><script src="//busuanzi.ibruce.info/busuanzi/2.3/busuanzi.pure.mini.js" defer></script><!--!--><link rel="stylesheet" href="https://cdn.jsdelivr.net/npm/cookieconsent@3.1.1/build/cookieconsent.min.css"><link rel="stylesheet" href="https://cdn.jsdelivr.net/npm/lightgallery@1.10.0/dist/css/lightgallery.min.css"><link rel="stylesheet" href="https://cdn.jsdelivr.net/npm/justifiedGallery@3.8.1/dist/css/justifiedGallery.min.css"><script src="https://www.googletagmanager.com/gtag/js?id=G-6H6ERYE1G0" async></script><script>window.dataLayer = window.dataLayer || [];
+<html lang="en"><head><meta name="google-site-verification" content="4JQY5xZfRv3yRunHpSGYotQMGoLFLpnYPmnitXMdW24"><meta charset="utf-8"><meta name="viewport" content="width=device-width, initial-scale=1, maximum-scale=1"><meta property="og:image" content="/img/ocean.png"><title>Categories - 사소하지만 도움이 되는</title><link rel="manifest" href="/manifest.json"><meta name="application-name" content="사소하지만 도움이 되는"><meta name="msapplication-TileImage" content="/img/logo.png"><meta name="apple-mobile-web-app-capable" content="yes"><meta name="apple-mobile-web-app-title" content="사소하지만 도움이 되는"><meta name="apple-mobile-web-app-status-bar-style" content="default"><meta name="description" content="사소하지만 지식들이 모여 도움이 되는 곳"><meta property="og:type" content="blog"><meta property="og:title" content="Categories - 사소하지만 도움이 되는"><meta property="og:url" content="https://tomas1876.github.io/"><meta property="og:site_name" content="사소하지만 도움이 되는"><meta property="og:description" content="사소하지만 지식들이 모여 도움이 되는 곳"><meta property="og:locale" content="en_US"><meta property="og:image" content="https://tomas1876.github.io/img/ocean.png"><meta property="article:author" content="Kahee"><meta property="article:tag" content="dev"><meta property="article:tag" content="git"><meta property="article:tag" content="hexo"><meta property="article:tag" content="front-end"><meta property="article:tag" content="react"><meta property="article:tag" content="typescript"><meta property="twitter:card" content="summary"><meta property="twitter:image:src" content="https://tomas1876.github.io/img/ocean.png"><script type="application/ld+json">{"@context":"https://schema.org","@type":"BlogPosting","mainEntityOfPage":{"@type":"WebPage","@id":"https://tomas1876.github.io"},"headline":"사소하지만 도움이 되는","image":["https://tomas1876.github.io/img/og_image.png"],"author":{"@type":"Person","name":"Kahee"},"publisher":{"@type":"Organization","name":"사소하지만 도움이 되는","logo":{"@type":"ImageObject","url":"https://tomas1876.github.io/img/logo.png"}},"description":""}</script><link rel="icon" href="/img/logo.png"><link rel="stylesheet" href="https://use.fontawesome.com/releases/v6.0.0/css/all.css"><link rel="stylesheet" href="https://cdn.jsdelivr.net/npm/highlight.js@9.12.0/styles/atom-one-light.css"><link rel="stylesheet" href="https://fonts.googleapis.com/css2?family=Ubuntu:wght@400;600&amp;family=Source+Code+Pro"><link rel="stylesheet" href="/css/default.css"><style>body>.footer,body>.navbar,body>.section{opacity:0}</style><!--!--><!--!--><!--!--><script src="//busuanzi.ibruce.info/busuanzi/2.3/busuanzi.pure.mini.js" defer></script><!--!--><link rel="stylesheet" href="https://cdn.jsdelivr.net/npm/cookieconsent@3.1.1/build/cookieconsent.min.css"><link rel="stylesheet" href="https://cdn.jsdelivr.net/npm/lightgallery@1.10.0/dist/css/lightgallery.min.css"><link rel="stylesheet" href="https://cdn.jsdelivr.net/npm/justifiedGallery@3.8.1/dist/css/justifiedGallery.min.css"><script src="https://www.googletagmanager.com/gtag/js?id=G-6H6ERYE1G0" async></script><script>window.dataLayer = window.dataLayer || [];
         function gtag(){dataLayer.push(arguments);}
         gtag('js', new Date());
     

diff --git a/tags/index.html b/tags/index.html
@@ -1,5 +1,5 @@
 <!doctype html>
-<html lang="en"><head><meta name="google-site-verification" content="4JQY5xZfRv3yRunHpSGYotQMGoLFLpnYPmnitXMdW24"><meta charset="utf-8"><meta name="viewport" content="width=device-width, initial-scale=1, maximum-scale=1"><meta property="og:image" content="/img/ocean.png"><title>Tags - 사소하지만 도움이 되는</title><link rel="manifest" href="/manifest.json"><meta name="application-name" content="사소하지만 도움이 되는"><meta name="msapplication-TileImage" content="/img/logo.png"><meta name="apple-mobile-web-app-capable" content="yes"><meta name="apple-mobile-web-app-title" content="사소하지만 도움이 되는"><meta name="apple-mobile-web-app-status-bar-style" content="default"><meta name="description" content="사소하지만 지식들이 모여 도움이 되는 곳"><meta property="og:type" content="blog"><meta property="og:title" content="Tags - 사소하지만 도움이 되는"><meta property="og:url" content="https://tomas1876.github.io/"><meta property="og:site_name" content="사소하지만 도움이 되는"><meta property="og:description" content="사소하지만 지식들이 모여 도움이 되는 곳"><meta property="og:locale" content="en_US"><meta property="og:image" content="https://tomas1876.github.io/img/ocean.png"><meta property="article:author" content="Kahee"><meta property="article:tag" content="hexo"><meta property="article:tag" content="dev"><meta property="article:tag" content="git"><meta property="article:tag" content="front-end"><meta property="article:tag" content="react"><meta property="article:tag" content="typescript"><meta property="twitter:card" content="summary"><meta property="twitter:image:src" content="https://tomas1876.github.io/img/ocean.png"><script type="application/ld+json">{"@context":"https://schema.org","@type":"BlogPosting","mainEntityOfPage":{"@type":"WebPage","@id":"https://tomas1876.github.io"},"headline":"사소하지만 도움이 되는","image":["https://tomas1876.github.io/img/og_image.png"],"author":{"@type":"Person","name":"Kahee"},"publisher":{"@type":"Organization","name":"사소하지만 도움이 되는","logo":{"@type":"ImageObject","url":"https://tomas1876.github.io/img/logo.png"}},"description":""}</script><link rel="icon" href="/img/logo.png"><link rel="stylesheet" href="https://use.fontawesome.com/releases/v6.0.0/css/all.css"><link rel="stylesheet" href="https://cdn.jsdelivr.net/npm/highlight.js@9.12.0/styles/atom-one-light.css"><link rel="stylesheet" href="https://fonts.googleapis.com/css2?family=Ubuntu:wght@400;600&amp;family=Source+Code+Pro"><link rel="stylesheet" href="/css/default.css"><style>body>.footer,body>.navbar,body>.section{opacity:0}</style><!--!--><!--!--><!--!--><script src="//busuanzi.ibruce.info/busuanzi/2.3/busuanzi.pure.mini.js" defer></script><!--!--><link rel="stylesheet" href="https://cdn.jsdelivr.net/npm/cookieconsent@3.1.1/build/cookieconsent.min.css"><link rel="stylesheet" href="https://cdn.jsdelivr.net/npm/lightgallery@1.10.0/dist/css/lightgallery.min.css"><link rel="stylesheet" href="https://cdn.jsdelivr.net/npm/justifiedGallery@3.8.1/dist/css/justifiedGallery.min.css"><script src="https://www.googletagmanager.com/gtag/js?id=G-6H6ERYE1G0" async></script><script>window.dataLayer = window.dataLayer || [];
+<html lang="en"><head><meta name="google-site-verification" content="4JQY5xZfRv3yRunHpSGYotQMGoLFLpnYPmnitXMdW24"><meta charset="utf-8"><meta name="viewport" content="width=device-width, initial-scale=1, maximum-scale=1"><meta property="og:image" content="/img/ocean.png"><title>Tags - 사소하지만 도움이 되는</title><link rel="manifest" href="/manifest.json"><meta name="application-name" content="사소하지만 도움이 되는"><meta name="msapplication-TileImage" content="/img/logo.png"><meta name="apple-mobile-web-app-capable" content="yes"><meta name="apple-mobile-web-app-title" content="사소하지만 도움이 되는"><meta name="apple-mobile-web-app-status-bar-style" content="default"><meta name="description" content="사소하지만 지식들이 모여 도움이 되는 곳"><meta property="og:type" content="blog"><meta property="og:title" content="Tags - 사소하지만 도움이 되는"><meta property="og:url" content="https://tomas1876.github.io/"><meta property="og:site_name" content="사소하지만 도움이 되는"><meta property="og:description" content="사소하지만 지식들이 모여 도움이 되는 곳"><meta property="og:locale" content="en_US"><meta property="og:image" content="https://tomas1876.github.io/img/ocean.png"><meta property="article:author" content="Kahee"><meta property="article:tag" content="dev"><meta property="article:tag" content="git"><meta property="article:tag" content="hexo"><meta property="article:tag" content="front-end"><meta property="article:tag" content="react"><meta property="article:tag" content="typescript"><meta property="twitter:card" content="summary"><meta property="twitter:image:src" content="https://tomas1876.github.io/img/ocean.png"><script type="application/ld+json">{"@context":"https://schema.org","@type":"BlogPosting","mainEntityOfPage":{"@type":"WebPage","@id":"https://tomas1876.github.io"},"headline":"사소하지만 도움이 되는","image":["https://tomas1876.github.io/img/og_image.png"],"author":{"@type":"Person","name":"Kahee"},"publisher":{"@type":"Organization","name":"사소하지만 도움이 되는","logo":{"@type":"ImageObject","url":"https://tomas1876.github.io/img/logo.png"}},"description":""}</script><link rel="icon" href="/img/logo.png"><link rel="stylesheet" href="https://use.fontawesome.com/releases/v6.0.0/css/all.css"><link rel="stylesheet" href="https://cdn.jsdelivr.net/npm/highlight.js@9.12.0/styles/atom-one-light.css"><link rel="stylesheet" href="https://fonts.googleapis.com/css2?family=Ubuntu:wght@400;600&amp;family=Source+Code+Pro"><link rel="stylesheet" href="/css/default.css"><style>body>.footer,body>.navbar,body>.section{opacity:0}</style><!--!--><!--!--><!--!--><script src="//busuanzi.ibruce.info/busuanzi/2.3/busuanzi.pure.mini.js" defer></script><!--!--><link rel="stylesheet" href="https://cdn.jsdelivr.net/npm/cookieconsent@3.1.1/build/cookieconsent.min.css"><link rel="stylesheet" href="https://cdn.jsdelivr.net/npm/lightgallery@1.10.0/dist/css/lightgallery.min.css"><link rel="stylesheet" href="https://cdn.jsdelivr.net/npm/justifiedGallery@3.8.1/dist/css/justifiedGallery.min.css"><script src="https://www.googletagmanager.com/gtag/js?id=G-6H6ERYE1G0" async></script><script>window.dataLayer = window.dataLayer || [];
         function gtag(){dataLayer.push(arguments);}
         gtag('js', new Date());
     

diff --git a/index.html b/index.html
@@ -32,7 +32,7 @@
       switchTab();
       window.addEventListener('hashchange', switchTab, false);
   })();
-  </script><!-- hexo injector head_end end --><meta name="generator" content="Hexo 6.3.0"></head><body class="is-2-column"><nav class="navbar navbar-main"><div class="container navbar-container"><div class="navbar-brand justify-content-center"><a class="navbar-item navbar-logo" href="/"><img src="/img/logo.png" alt="사소하지만 도움이 되는" height="28"></a></div><div class="navbar-menu"><div class="navbar-start"><a class="navbar-item is-active" href="/">Home</a><a class="navbar-item" href="/archives">Archives</a><a class="navbar-item" href="/categories">Categories</a><a class="navbar-item" href="/tags">Tags</a><a class="navbar-item" href="/about">About</a></div><div class="navbar-end"><a class="navbar-item" target="_blank" rel="noopener" title="Download on GitHub" href="https://github.com/Tomas1876"><i class="fab fa-github"></i></a><a class="navbar-item search" title="Search" href="javascript:;"><i class="fas fa-search"></i></a></div></div></div></nav><section class="section"><div class="container"><div class="columns"><div class="column order-2 column-main is-8-tablet is-8-desktop is-8-widescreen"><div class="card"><div class="card-image"><a class="image is-7by3" href="/make-a-pretty-link-preview/"><img class="fill" src="/make-a-pretty-link-preview/cover.png" alt="[hexo] 블로그 링크 공유시 제목, 이미지 커스텀하기"></a></div><article class="card-content article" role="article"><div class="article-meta is-size-7 is-uppercase level is-mobile"><div class="level-left"><span class="level-item">Posted&nbsp;<time dateTime="2022-11-22T12:05:14.000Z" title="2022. 11. 22. 오후 9:05:14">2022-11-22</time></span><span class="level-item">Updated&nbsp;<time dateTime="2022-11-22T13:41:53.292Z" title="2022. 11. 22. 오후 10:41:53">2022-11-22</time></span><span class="level-item"><a class="link-muted" href="/categories/JOURNAL/">JOURNAL</a></span><span class="level-item">14 minutes read (About 2124 words)</span></div></div><h1 class="title is-3 is-size-4-mobile"><a class="link-muted" href="/make-a-pretty-link-preview/">[hexo] 블로그 링크 공유시 제목, 이미지 커스텀하기</a></h1><div class="content"><h3 id="커스텀-커스텀을-하자"><a href="#커스텀-커스텀을-하자" class="headerlink" title="커스텀! 커스텀을 하자!"></a>커스텀! 커스텀을 하자!</h3><p>나는 원래 ‘내 개인의 것’이라는 생각이 들면 내 입맛대로 조금씩 바꾸는 것을 좋아한다.<br>어렸을 때부터 휴대폰을 사면 가장 먼저 하는 것이 배경화면과 테마, 앱배치를 조정하는 일이었다.<br>깃블로그를 만들고 나서도 가장 먼저 _config.yml을 열어 제목과 기본 정보들을 내 것으로 채워넣었다.<br>여기까진 쉽고 자료도 많았다. 문제는 내 블로그를 지인에게 자랑하거나, 글을 써서 공유하려고 만든 링크의 미리보기가 마음에 들지 않는다는 것이었다.</p>
+  </script><!-- hexo injector head_end end --><meta name="generator" content="Hexo 6.3.0"></head><body class="is-2-column"><nav class="navbar navbar-main"><div class="container navbar-container"><div class="navbar-brand justify-content-center"><a class="navbar-item navbar-logo" href="/"><img src="/img/logo.png" alt="사소하지만 도움이 되는" height="28"></a></div><div class="navbar-menu"><div class="navbar-start"><a class="navbar-item is-active" href="/">Home</a><a class="navbar-item" href="/archives">Archives</a><a class="navbar-item" href="/categories">Categories</a><a class="navbar-item" href="/tags">Tags</a><a class="navbar-item" href="/about">About</a></div><div class="navbar-end"><a class="navbar-item" target="_blank" rel="noopener" title="Download on GitHub" href="https://github.com/Tomas1876"><i class="fab fa-github"></i></a><a class="navbar-item search" title="Search" href="javascript:;"><i class="fas fa-search"></i></a></div></div></div></nav><section class="section"><div class="container"><div class="columns"><div class="column order-2 column-main is-8-tablet is-8-desktop is-8-widescreen"><div class="card"><div class="card-image"><a class="image is-7by3" href="/make-a-pretty-link-preview/"><img class="fill" src="/make-a-pretty-link-preview/cover.png" alt="[hexo] 블로그 링크 공유시 제목, 이미지 커스텀하기"></a></div><article class="card-content article" role="article"><div class="article-meta is-size-7 is-uppercase level is-mobile"><div class="level-left"><span class="level-item">Posted&nbsp;<time dateTime="2022-11-22T12:05:14.000Z" title="2022. 11. 22. 오후 9:05:14">2022-11-22</time></span><span class="level-item">Updated&nbsp;<time dateTime="2022-11-22T14:07:14.492Z" title="2022. 11. 22. 오후 11:07:14">2022-11-22</time></span><span class="level-item"><a class="link-muted" href="/categories/JOURNAL/">JOURNAL</a></span><span class="level-item">14 minutes read (About 2124 words)</span></div></div><h1 class="title is-3 is-size-4-mobile"><a class="link-muted" href="/make-a-pretty-link-preview/">[hexo] 블로그 링크 공유시 제목, 이미지 커스텀하기</a></h1><div class="content"><h3 id="커스텀-커스텀을-하자"><a href="#커스텀-커스텀을-하자" class="headerlink" title="커스텀! 커스텀을 하자!"></a>커스텀! 커스텀을 하자!</h3><p>나는 원래 ‘내 개인의 것’이라는 생각이 들면 내 입맛대로 조금씩 바꾸는 것을 좋아한다.<br>어렸을 때부터 휴대폰을 사면 가장 먼저 하는 것이 배경화면과 테마, 앱배치를 조정하는 일이었다.<br>깃블로그를 만들고 나서도 가장 먼저 _config.yml을 열어 제목과 기본 정보들을 내 것으로 채워넣었다.<br>여기까진 쉽고 자료도 많았다. 문제는 내 블로그를 지인에게 자랑하거나, 글을 써서 공유하려고 만든 링크의 미리보기가 마음에 들지 않는다는 것이었다.</p>
 <img src="/make-a-pretty-link-preview/icarus-default.png" class>
 
 <p>내가 사용하는 이카루스 테마의 기본 미리보기는 이렇다.<br>나쁘지는 않지만 마음에 드는 것은 아니었다. 뭐를 바꿔야 할지 몰라서 _config.yml과 _config.icarus.yml 을 샅샅이 뒤졌지만 무엇을 바꿔야 할 지 알 수 없었다. 그래서 일단 의심가는 곳을 다 설정해봤다.</p>
